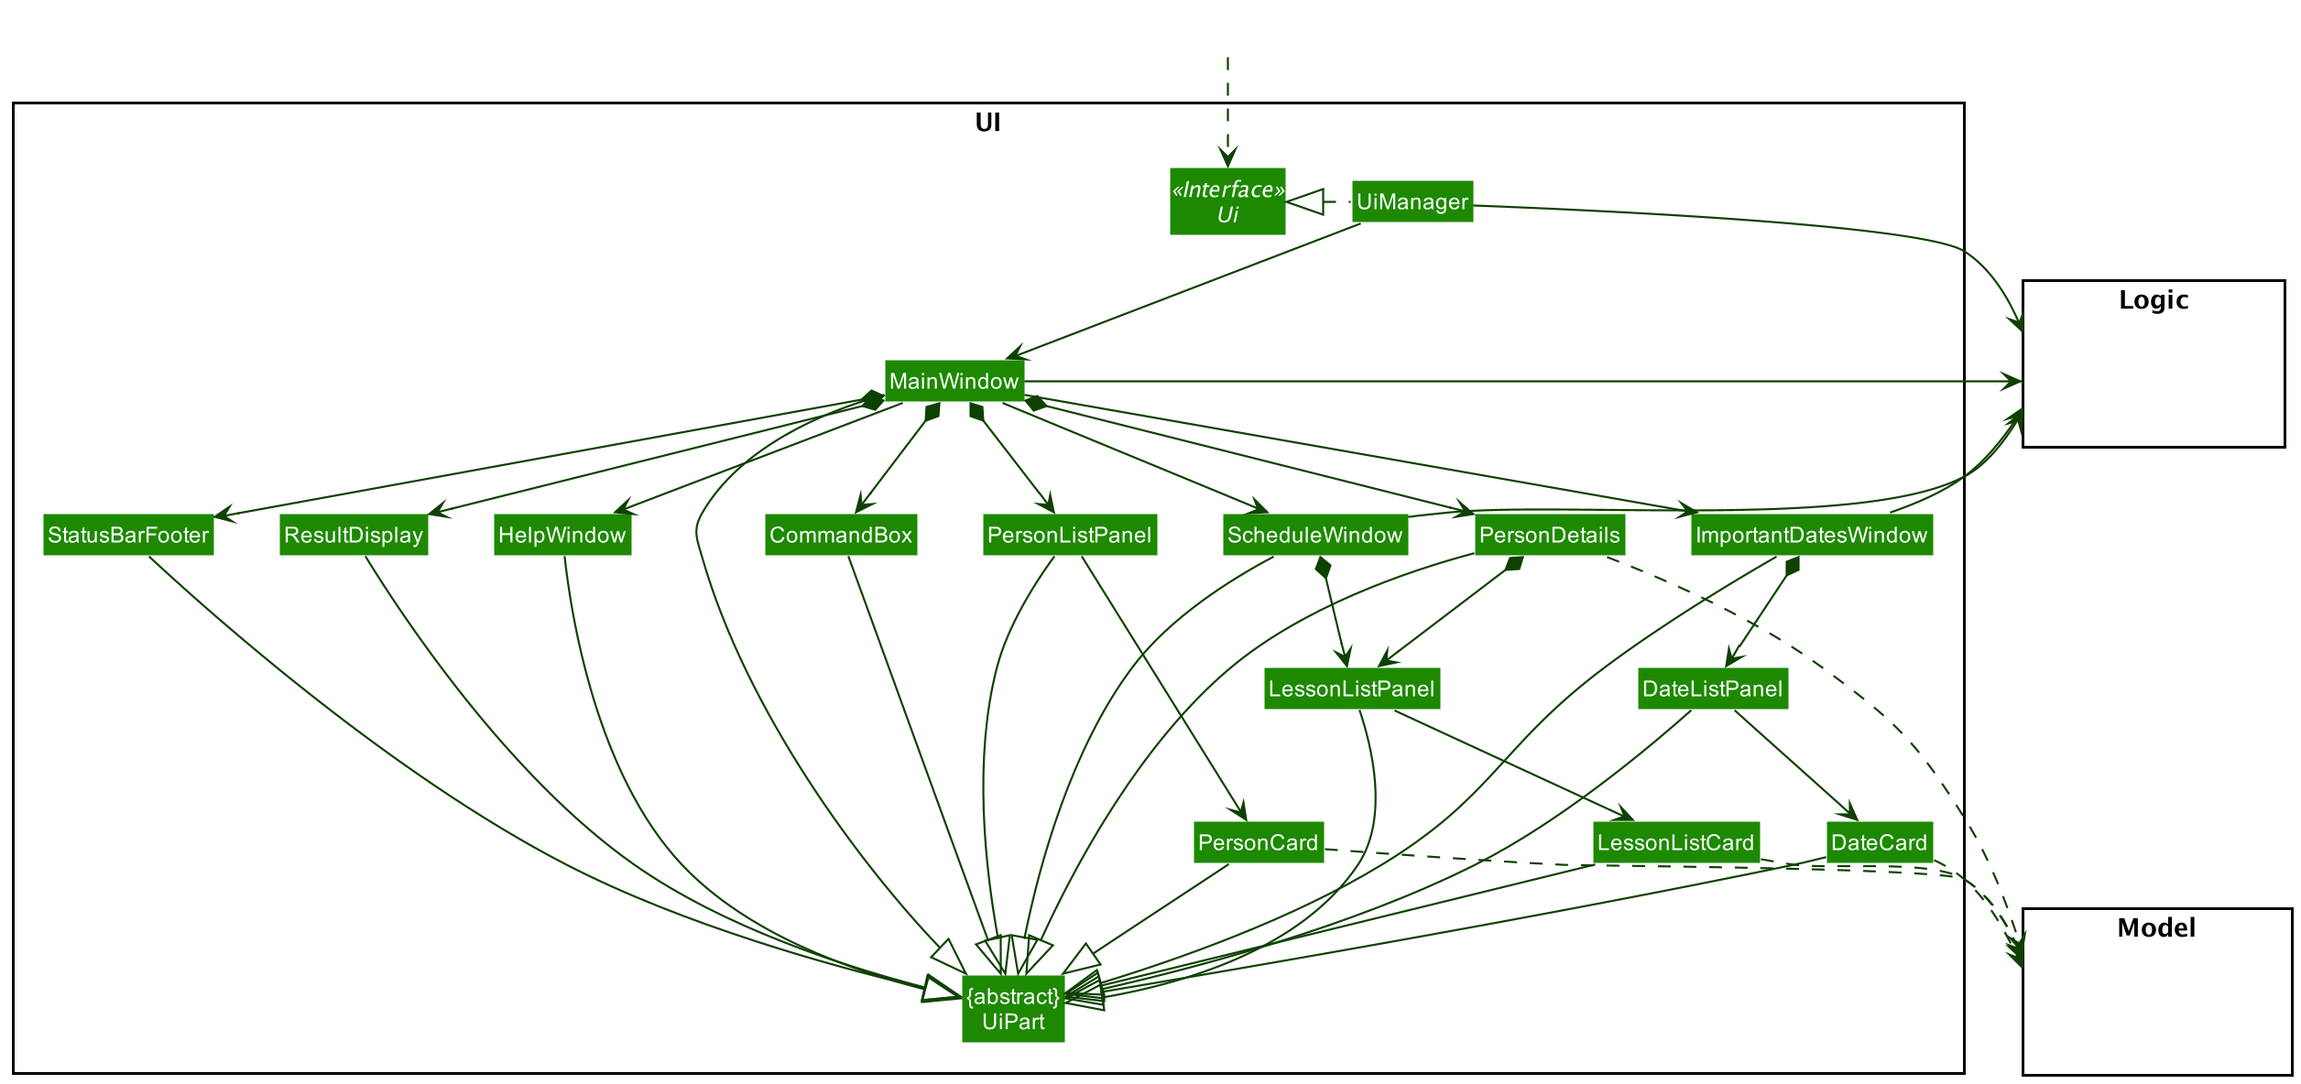
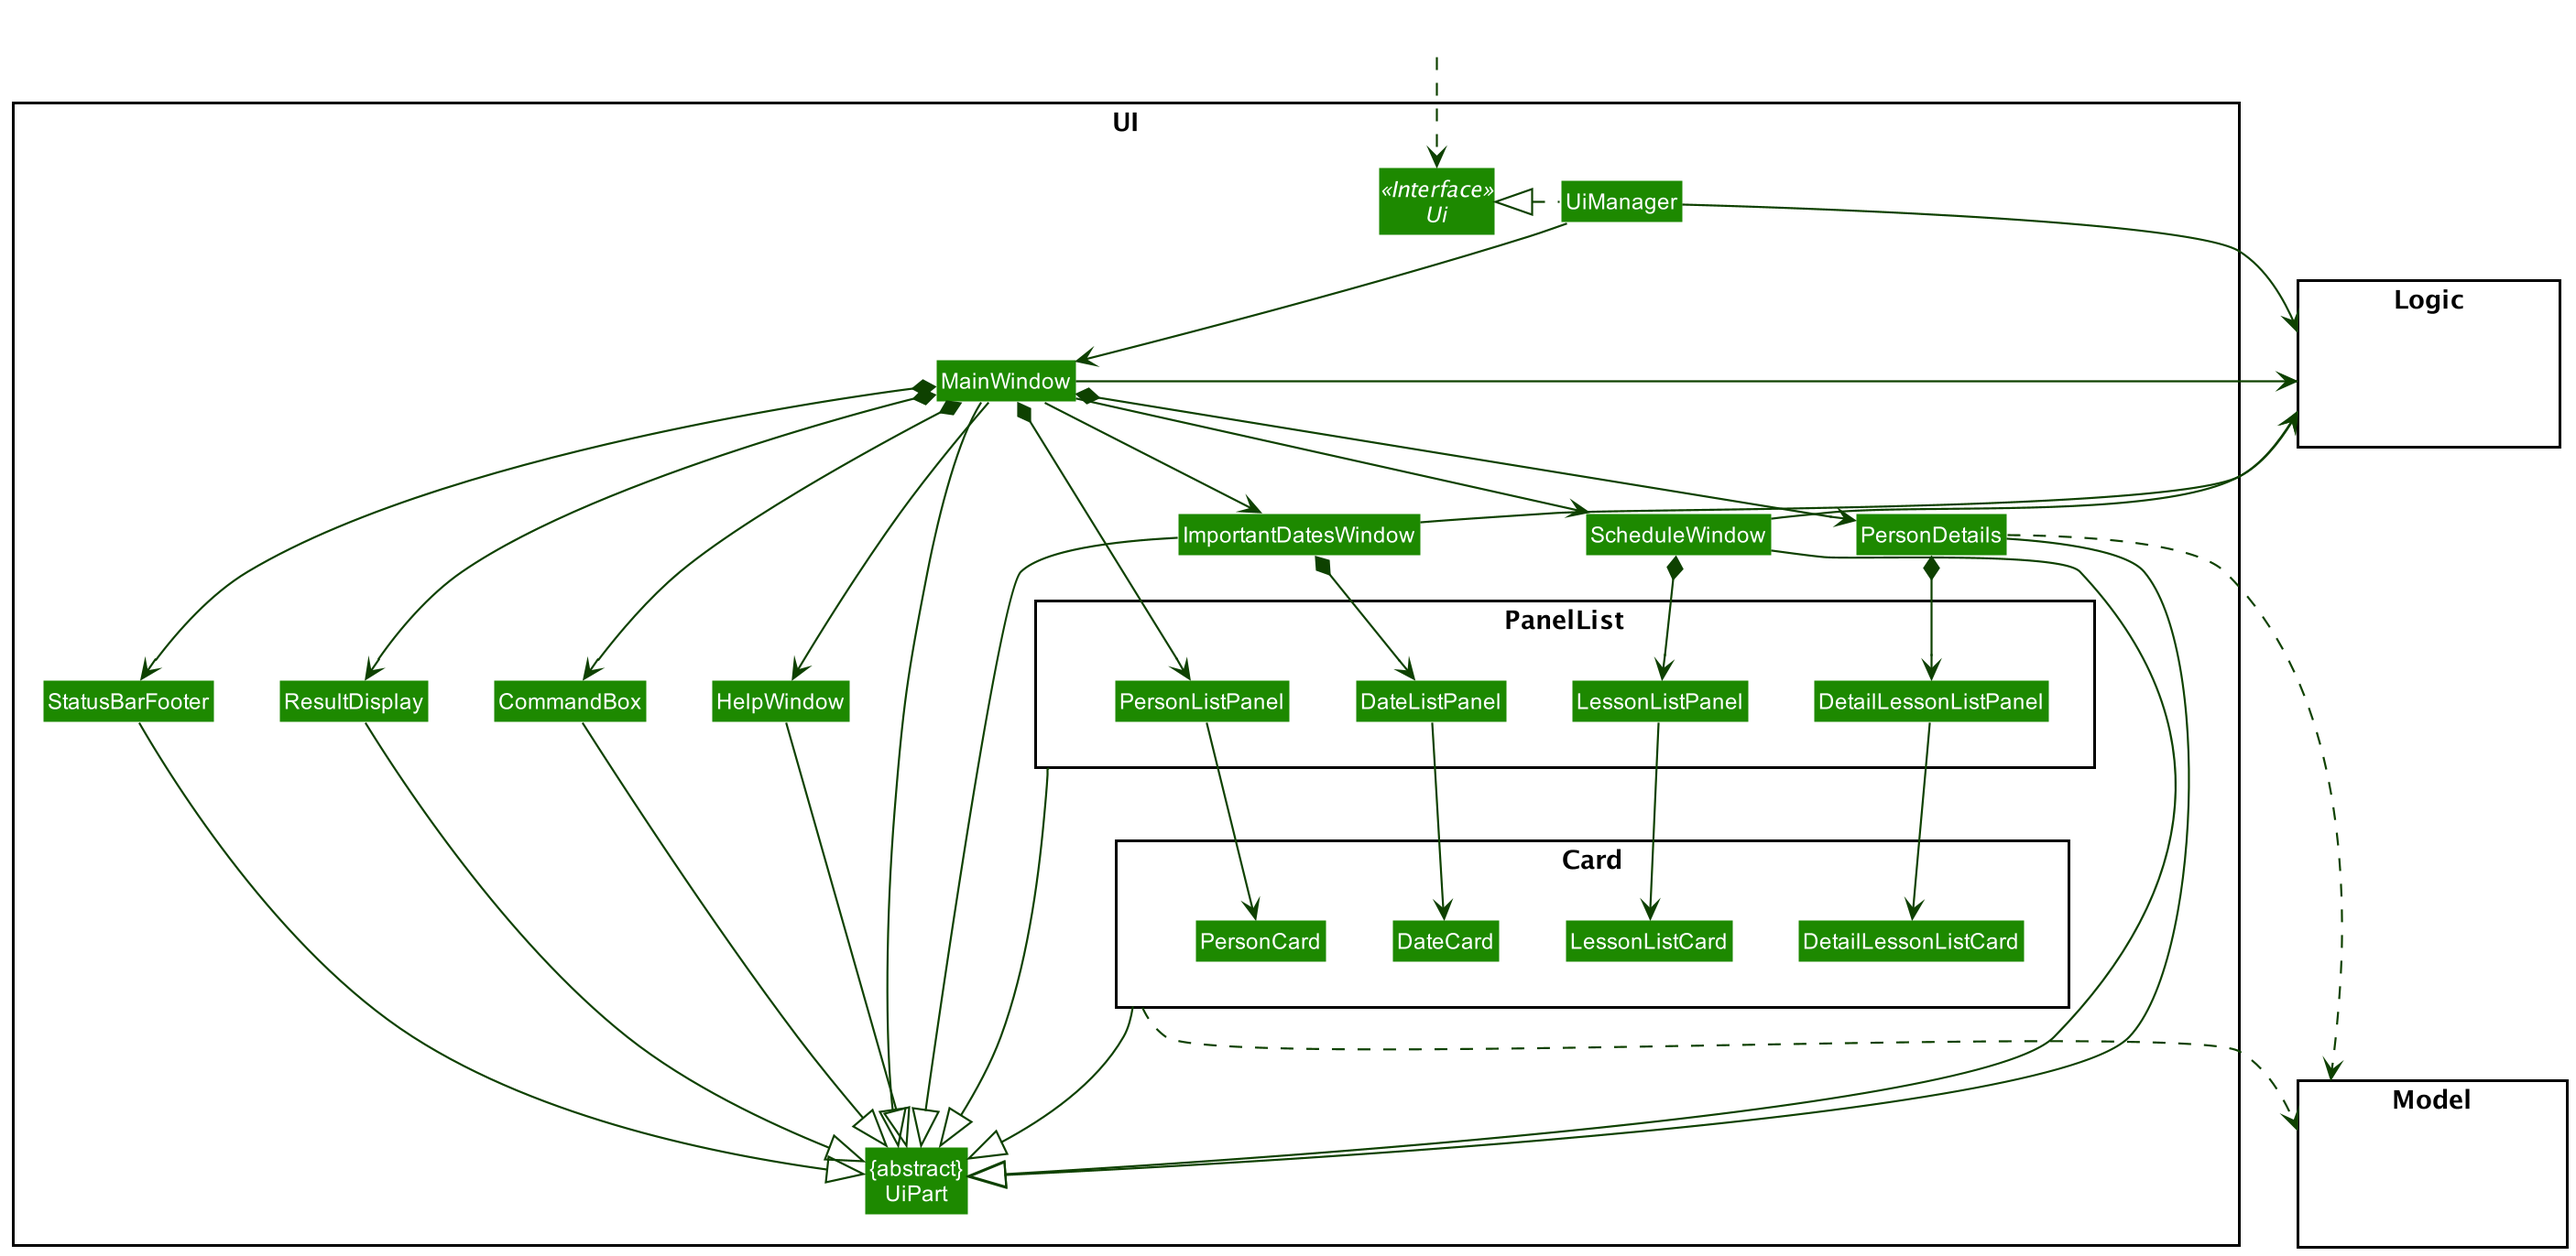
Update DG

diff --git a/src/main/java/seedu/address/ui/Card/DateCard.java b/src/main/java/seedu/address/ui/Card/DateCard.java
@@ -1,18 +1,19 @@
-package seedu.address.ui;
+package seedu.address.ui.Card;
 
 import javafx.fxml.FXML;
 import javafx.scene.control.Label;
 import javafx.scene.layout.HBox;
 import javafx.scene.layout.Region;
-import seedu.address.model.lesson.Lesson;
+import seedu.address.model.date.ImportantDate;
+import seedu.address.ui.UiPart;
 
 
 /**
  * An UI component that displays information of an {@code Important Date}.
  */
-public class DetailLessonListCard extends UiPart<Region> {
+public class DateCard extends UiPart<Region> {
 
-    private static final String FXML = "DetailLessonListCard.fxml";
+    private static final String FXML = "DateListCard.fxml";
 
     /**
      * Note: Certain keywords such as "location" and "resources" are reserved keywords in JavaFX.
@@ -22,24 +23,26 @@ public class DetailLessonListCard extends UiPart<Region> {
      * @see <a href="https://github.com/se-edu/addressbook-level4/issues/336">The issue on AddressBook level 4</a>
      */
 
-    public final Lesson lesson;
+    public final ImportantDate importantDate;
 
     @javafx.fxml.FXML
     private HBox cardPane;
     @FXML
-    private Label lessonDay;
+    private Label description;
     @FXML
-    private Label lessonTime;
+    private Label details;
+    @FXML
+    private Label id;
 
     /**
-     * Creates a {@code LessonListCard} with the given {@code Lesson} and index to display.
+     * Creates a {@code DateCard} with the given {@code Important Date} and index to display.
      */
-    public DetailLessonListCard(Lesson lesson) {
+    public DateCard(ImportantDate importantDate, int displayedIndex) {
         super(FXML);
-        this.lesson = lesson;
-        lessonDay.setText(lesson.getDayInString());
-        lessonTime.setText(lesson.getTimeInString());
-        cardPane.prefWidthProperty().bind(getRoot().widthProperty());
+        this.importantDate = importantDate;
+        id.setText(displayedIndex + ". ");
+        description.setText(importantDate.getDescription().description);
+        details.setText(importantDate.getDetails().toString());
     }
 
     @Override
@@ -50,13 +53,14 @@ public class DetailLessonListCard extends UiPart<Region> {
         }
 
         // instanceof handles nulls
-        if (!(other instanceof LessonListCard)) {
+        if (!(other instanceof DateCard)) {
             return false;
         }
 
         // state check
-        DetailLessonListCard card = (DetailLessonListCard) other;
-        return lessonDay.getText().equals(card.lessonDay.getText())
-                && lessonTime.getText().equals(card.lessonTime.getText());
+        DateCard card = (DateCard) other;
+        return id.getText().equals(card.id.getText())
+                && importantDate.equals(card.importantDate);
     }
+
 }

diff --git a/src/main/java/seedu/address/ui/Card/DetailLessonListCard.java b/src/main/java/seedu/address/ui/Card/DetailLessonListCard.java
@@ -1,18 +1,19 @@
-package seedu.address.ui;
+package seedu.address.ui.Card;
 
 import javafx.fxml.FXML;
 import javafx.scene.control.Label;
 import javafx.scene.layout.HBox;
 import javafx.scene.layout.Region;
-import seedu.address.model.date.ImportantDate;
+import seedu.address.model.lesson.Lesson;
+import seedu.address.ui.UiPart;
 
 
 /**
  * An UI component that displays information of an {@code Important Date}.
  */
-public class DateCard extends UiPart<Region> {
+public class DetailLessonListCard extends UiPart<Region> {
 
-    private static final String FXML = "DateListCard.fxml";
+    private static final String FXML = "DetailLessonListCard.fxml";
 
     /**
      * Note: Certain keywords such as "location" and "resources" are reserved keywords in JavaFX.
@@ -22,26 +23,24 @@ public class DateCard extends UiPart<Region> {
      * @see <a href="https://github.com/se-edu/addressbook-level4/issues/336">The issue on AddressBook level 4</a>
      */
 
-    public final ImportantDate importantDate;
+    public final Lesson lesson;
 
     @javafx.fxml.FXML
     private HBox cardPane;
     @FXML
-    private Label description;
+    private Label lessonDay;
     @FXML
-    private Label details;
-    @FXML
-    private Label id;
+    private Label lessonTime;
 
     /**
-     * Creates a {@code DateCard} with the given {@code Important Date} and index to display.
+     * Creates a {@code LessonListCard} with the given {@code Lesson} and index to display.
      */
-    public DateCard(ImportantDate importantDate, int displayedIndex) {
+    public DetailLessonListCard(Lesson lesson) {
         super(FXML);
-        this.importantDate = importantDate;
-        id.setText(displayedIndex + ". ");
-        description.setText(importantDate.getDescription().description);
-        details.setText(importantDate.getDetails().toString());
+        this.lesson = lesson;
+        lessonDay.setText(lesson.getDayInString());
+        lessonTime.setText(lesson.getTimeInString());
+        cardPane.prefWidthProperty().bind(getRoot().widthProperty());
     }
 
     @Override
@@ -52,14 +51,13 @@ public class DateCard extends UiPart<Region> {
         }
 
         // instanceof handles nulls
-        if (!(other instanceof DateCard)) {
+        if (!(other instanceof LessonListCard)) {
             return false;
         }
 
         // state check
-        DateCard card = (DateCard) other;
-        return id.getText().equals(card.id.getText())
-                && importantDate.equals(card.importantDate);
+        DetailLessonListCard card = (DetailLessonListCard) other;
+        return lessonDay.getText().equals(card.lessonDay.getText())
+                && lessonTime.getText().equals(card.lessonTime.getText());
     }
-
 }

diff --git a/src/main/java/seedu/address/ui/PanelList/LessonListPanel.java b/src/main/java/seedu/address/ui/PanelList/LessonListPanel.java
@@ -1,4 +1,4 @@
-package seedu.address.ui;
+package seedu.address.ui.PanelList;
 
 import java.util.logging.Logger;
 
@@ -9,11 +9,13 @@ import javafx.scene.control.ListView;
 import javafx.scene.layout.Region;
 import seedu.address.commons.core.LogsCenter;
 import seedu.address.model.lesson.Lesson;
+import seedu.address.ui.Card.LessonListCard;
+import seedu.address.ui.UiPart;
 
 /**
  * Panel containing the list of Lessons.
  */
-public class DetailLessonListPanel extends UiPart<Region> {
+public class LessonListPanel extends UiPart<Region> {
     private static final String FXML = "LessonListPanel.fxml";
     private final Logger logger = LogsCenter.getLogger(LessonListPanel.class);
 
@@ -23,7 +25,7 @@ public class DetailLessonListPanel extends UiPart<Region> {
     /**
      * Creates a {@code LessonListPanel} with the given {@code ObservableList}.
      */
-    public DetailLessonListPanel(ObservableList<Lesson> lessonList) {
+    public LessonListPanel(ObservableList<Lesson> lessonList) {
         super(FXML);
         lessonListView.setItems(lessonList);
         lessonListView.setCellFactory(listView -> new LessonListViewCell());
@@ -41,8 +43,9 @@ public class DetailLessonListPanel extends UiPart<Region> {
                 setGraphic(null);
                 setText(null);
             } else {
-                setGraphic(new DetailLessonListCard(lesson).getRoot());
+                setGraphic(new LessonListCard(lesson).getRoot());
             }
         }
     }
+
 }

diff --git a/src/main/java/seedu/address/ui/PanelList/DetailLessonListPanel.java b/src/main/java/seedu/address/ui/PanelList/DetailLessonListPanel.java
@@ -1,4 +1,4 @@
-package seedu.address.ui;
+package seedu.address.ui.PanelList;
 
 import java.util.logging.Logger;
 
@@ -9,11 +9,13 @@ import javafx.scene.control.ListView;
 import javafx.scene.layout.Region;
 import seedu.address.commons.core.LogsCenter;
 import seedu.address.model.lesson.Lesson;
+import seedu.address.ui.Card.DetailLessonListCard;
+import seedu.address.ui.UiPart;
 
 /**
  * Panel containing the list of Lessons.
  */
-public class LessonListPanel extends UiPart<Region> {
+public class DetailLessonListPanel extends UiPart<Region> {
     private static final String FXML = "LessonListPanel.fxml";
     private final Logger logger = LogsCenter.getLogger(LessonListPanel.class);
 
@@ -23,7 +25,7 @@ public class LessonListPanel extends UiPart<Region> {
     /**
      * Creates a {@code LessonListPanel} with the given {@code ObservableList}.
      */
-    public LessonListPanel(ObservableList<Lesson> lessonList) {
+    public DetailLessonListPanel(ObservableList<Lesson> lessonList) {
         super(FXML);
         lessonListView.setItems(lessonList);
         lessonListView.setCellFactory(listView -> new LessonListViewCell());
@@ -41,9 +43,8 @@ public class LessonListPanel extends UiPart<Region> {
                 setGraphic(null);
                 setText(null);
             } else {
-                setGraphic(new LessonListCard(lesson).getRoot());
+                setGraphic(new DetailLessonListCard(lesson).getRoot());
             }
         }
     }
-
 }

diff --git a/src/main/java/seedu/address/ui/PanelList/DateListPanel.java b/src/main/java/seedu/address/ui/PanelList/DateListPanel.java
@@ -1,4 +1,4 @@
-package seedu.address.ui;
+package seedu.address.ui.PanelList;
 
 import java.util.logging.Logger;
 
@@ -9,6 +9,8 @@ import javafx.scene.control.ListView;
 import javafx.scene.layout.Region;
 import seedu.address.commons.core.LogsCenter;
 import seedu.address.model.date.ImportantDate;
+import seedu.address.ui.Card.DateCard;
+import seedu.address.ui.UiPart;
 
 /**
  * Panel containing the list of Important Dates.

diff --git a/src/main/java/seedu/address/ui/PanelList/PersonListPanel.java b/src/main/java/seedu/address/ui/PanelList/PersonListPanel.java
@@ -1,4 +1,4 @@
-package seedu.address.ui;
+package seedu.address.ui.PanelList;
 
 import java.util.logging.Logger;
 
@@ -9,6 +9,8 @@ import javafx.scene.control.ListView;
 import javafx.scene.layout.Region;
 import seedu.address.commons.core.LogsCenter;
 import seedu.address.model.person.Person;
+import seedu.address.ui.Card.PersonCard;
+import seedu.address.ui.UiPart;
 
 /**
  * Panel containing the list of persons.

diff --git a/src/main/java/seedu/address/ui/Card/PersonCard.java b/src/main/java/seedu/address/ui/Card/PersonCard.java
@@ -1,4 +1,4 @@
-package seedu.address.ui;
+package seedu.address.ui.Card;
 
 import java.util.Comparator;
 
@@ -8,6 +8,7 @@ import javafx.scene.layout.FlowPane;
 import javafx.scene.layout.HBox;
 import javafx.scene.layout.Region;
 import seedu.address.model.person.Person;
+import seedu.address.ui.UiPart;
 
 /**
  * An UI component that displays information of a {@code Person}.

diff --git a/src/main/java/seedu/address/ui/MainWindow.java b/src/main/java/seedu/address/ui/MainWindow.java
@@ -21,6 +21,7 @@ import seedu.address.logic.Logic;
 import seedu.address.logic.commands.CommandResult;
 import seedu.address.logic.commands.exceptions.CommandException;
 import seedu.address.logic.parser.exceptions.ParseException;
+import seedu.address.ui.PanelList.PersonListPanel;
 
 /**
  * The Main Window. Provides the basic application layout containing

diff --git a/src/main/java/seedu/address/ui/PersonDetails.java b/src/main/java/seedu/address/ui/PersonDetails.java
@@ -9,6 +9,7 @@ import javafx.scene.layout.StackPane;
 import seedu.address.logic.Logic;
 import seedu.address.model.lesson.Lesson;
 import seedu.address.model.person.Person;
+import seedu.address.ui.PanelList.DetailLessonListPanel;
 
 /**
  * An UI component that displays information of a {@code Person}.

diff --git a/src/main/java/seedu/address/ui/Card/LessonListCard.java b/src/main/java/seedu/address/ui/Card/LessonListCard.java
@@ -1,10 +1,11 @@
-package seedu.address.ui;
+package seedu.address.ui.Card;
 
 import javafx.fxml.FXML;
 import javafx.scene.control.Label;
 import javafx.scene.layout.HBox;
 import javafx.scene.layout.Region;
 import seedu.address.model.lesson.Lesson;
+import seedu.address.ui.UiPart;
 
 
 /**

diff --git a/src/main/java/seedu/address/ui/ScheduleWindow.java b/src/main/java/seedu/address/ui/ScheduleWindow.java
@@ -9,6 +9,7 @@ import javafx.scene.layout.StackPane;
 import javafx.stage.Stage;
 import seedu.address.commons.core.LogsCenter;
 import seedu.address.logic.Logic;
+import seedu.address.ui.PanelList.LessonListPanel;
 
 /**
  * Controller for a schedule page

diff --git a/src/main/java/seedu/address/ui/ImportantDatesWindow.java b/src/main/java/seedu/address/ui/ImportantDatesWindow.java
@@ -7,6 +7,7 @@ import javafx.scene.layout.StackPane;
 import javafx.stage.Stage;
 import seedu.address.commons.core.LogsCenter;
 import seedu.address.logic.Logic;
+import seedu.address.ui.PanelList.DateListPanel;
 
 /**
  * Controller for a schedule page
